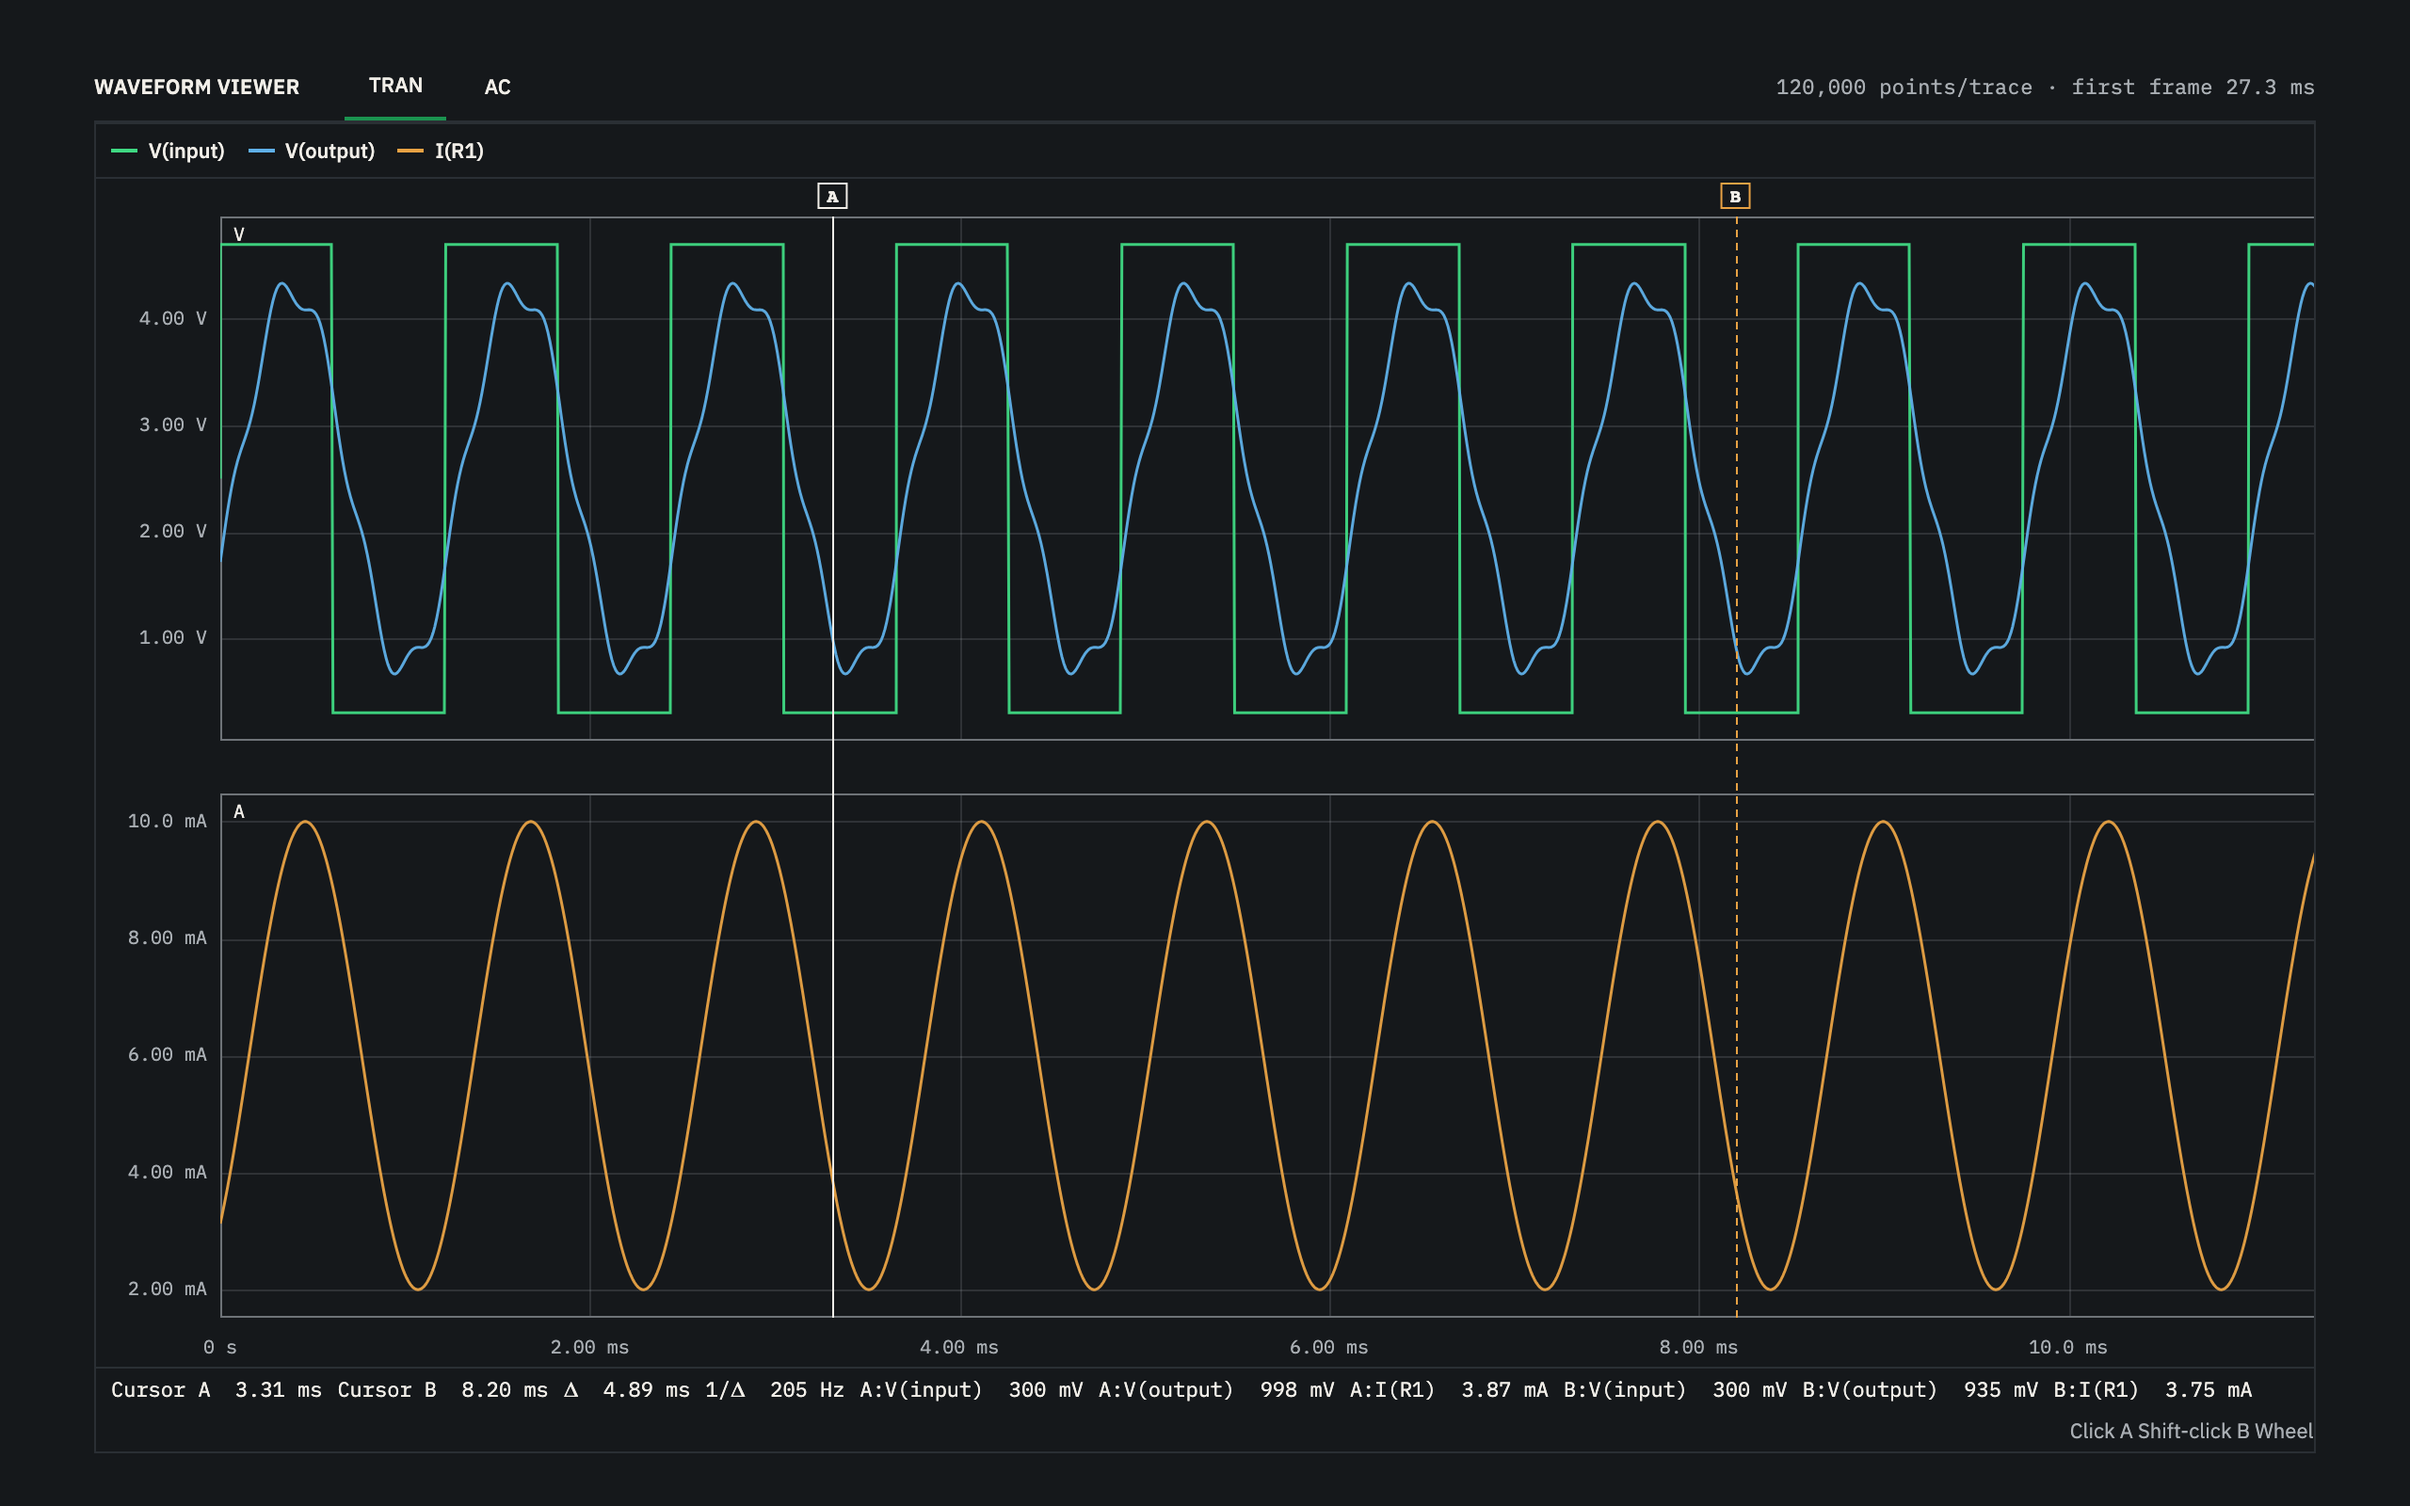
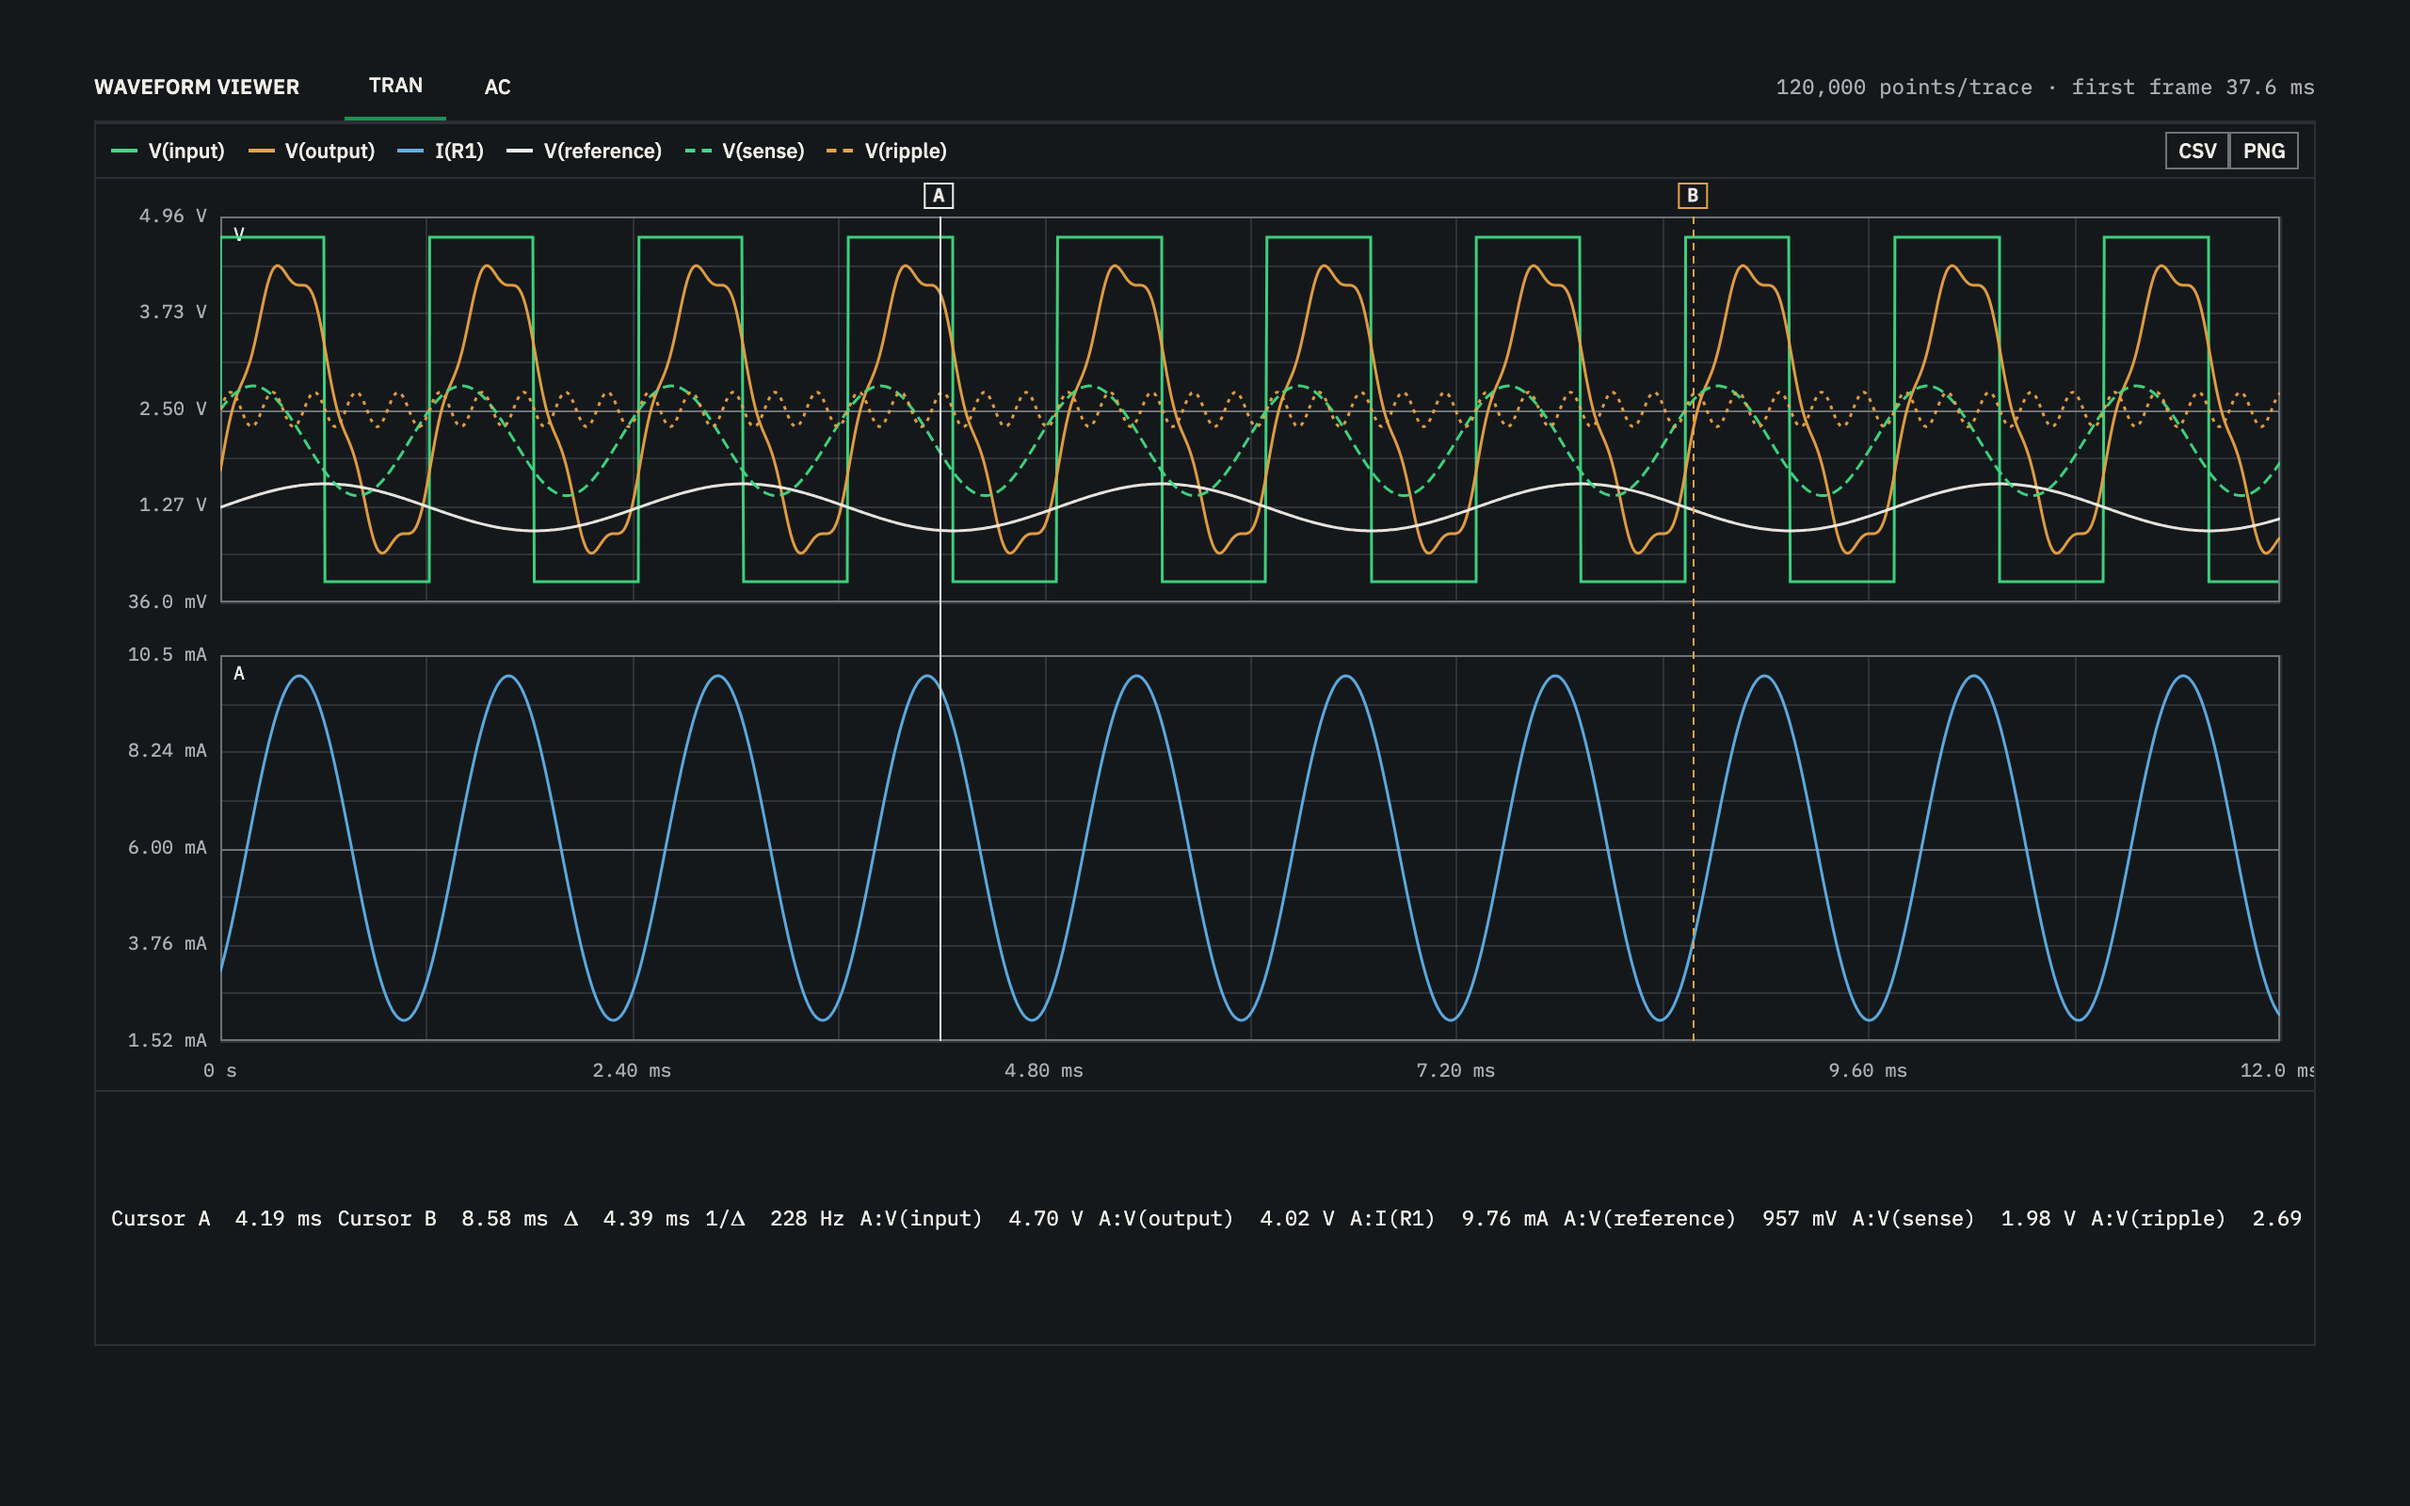
docs(waveform-viewer): show dashed trace channels

diff --git a/packages/waveform-viewer/dev/main.ts b/packages/waveform-viewer/dev/main.ts
@@ -11,12 +11,18 @@ const time = new Float64Array(sampleCount);
 const input = new Float64Array(sampleCount);
 const output = new Float64Array(sampleCount);
 const current = new Float64Array(sampleCount);
+const reference = new Float64Array(sampleCount);
+const sense = new Float64Array(sampleCount);
+const ripple = new Float64Array(sampleCount);
 for (let index = 0; index < sampleCount; index += 1) {
   const t = index / (sampleCount - 1) * 0.012;
   time[index] = t;
   input[index] = 2.5 + 2.2 * Math.sign(Math.sin(2 * Math.PI * 820 * t));
   output[index] = 2.5 + 1.8 * Math.sin(2 * Math.PI * 820 * t - 0.45) + 0.16 * Math.sin(2 * Math.PI * 4100 * t);
   current[index] = 0.006 + 0.004 * Math.sin(2 * Math.PI * 820 * t - 0.8);
+  reference[index] = 1.25 + 0.3 * Math.sin(2 * Math.PI * 410 * t);
+  sense[index] = 2.1 + 0.7 * Math.sin(2 * Math.PI * 820 * t + 0.6);
+  ripple[index] = 2.5 + 0.22 * Math.sin(2 * Math.PI * 4100 * t);
 }
 
 const acCount = 481;
@@ -48,13 +54,14 @@ function mathDivide(a: { re: number; im: number }, b: { re: number; im: number }
 const viewerElement = document.querySelector<HTMLElement>("#viewer");
 if (!viewerElement) throw new Error("Missing viewer element");
 const viewer = mount(viewerElement, {
-  colors: ["#3FD983", "#5FB0E8", "#E8A244", "#E8735A"],
+  colors: ["#3FD983", "#E8A244", "#5FB0E8", "#F1EEE8", "#3FD983", "#E8A244"],
+  dashes: [[], [], [], [], [6, 3], [2, 3]],
   unwrapPhase: true,
 });
 
 function showTran(): void {
   const start = performance.now();
-  viewer.setData({ kind: "tran", vectors: { time, "V(input)": input, "V(output)": output, "I(R1)": current } });
+  viewer.setData({ kind: "tran", vectors: { time, "V(input)": input, "V(output)": output, "I(R1)": current, "V(reference)": reference, "V(sense)": sense, "V(ripple)": ripple } });
   requestAnimationFrame(() => {
     const perf = document.querySelector("#perf");
     if (perf) perf.textContent = `${sampleCount.toLocaleString()} points/trace · first frame ${(performance.now() - start).toFixed(1)} ms`;
